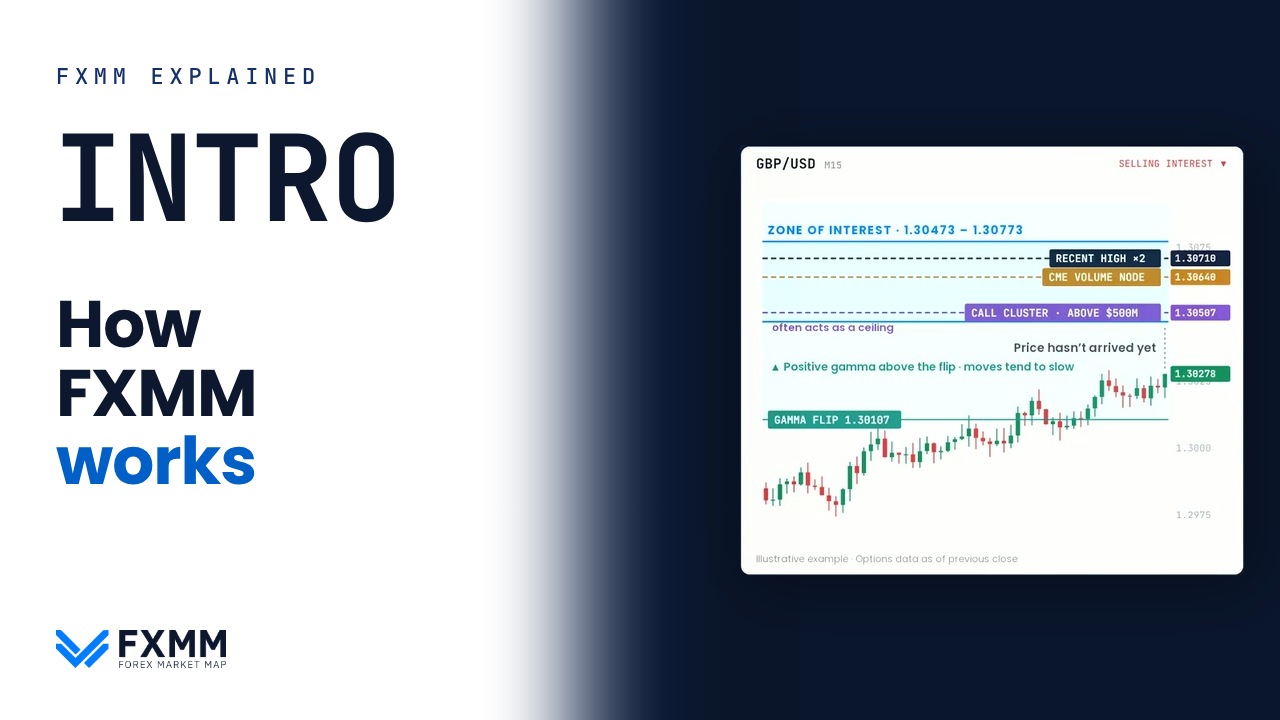
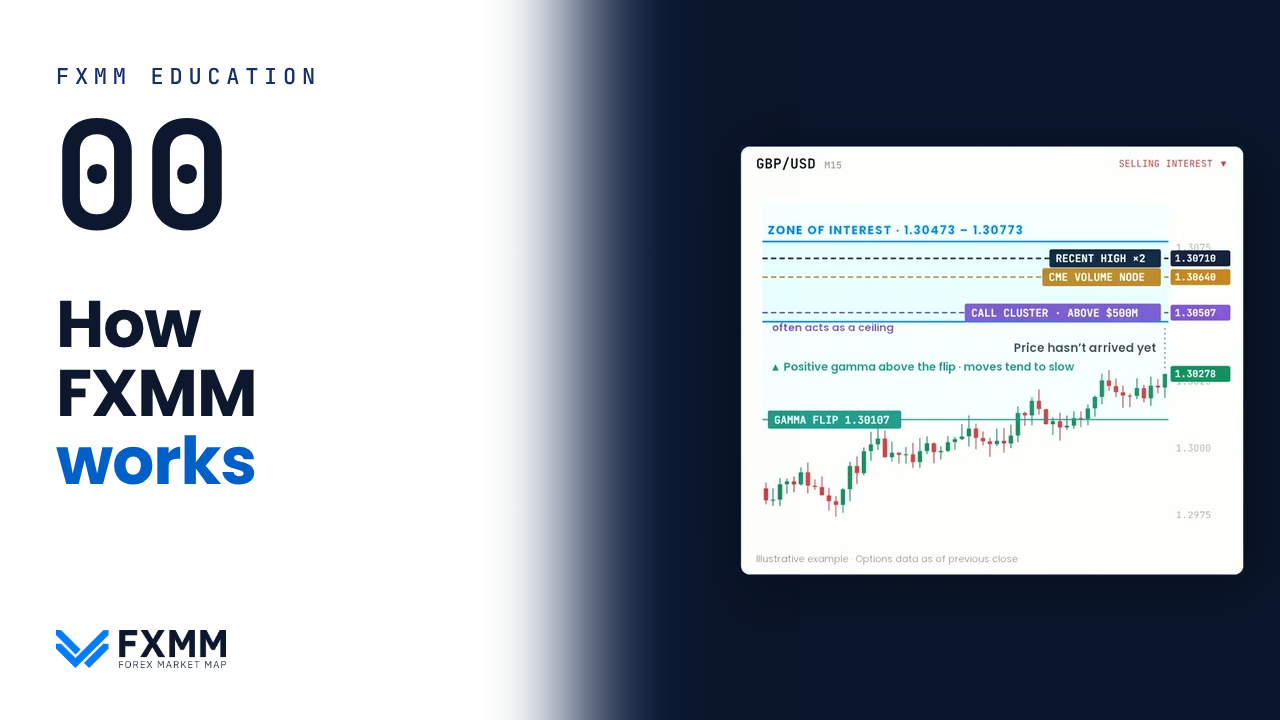
Thumbnails: intro cover matches series (00)
Claude-Session: https://claude.ai/code/session_01VxsYKLABZ3CXgDK8H7oL1R

Changed region(s): [[0.0312, 0.1528, 0.3125, 0.3361], [0.1875, 0.0917, 0.25, 0.1222], [0.125, 0.0917, 0.1562, 0.1222]]

diff --git a/youtube/thumbs/xf.html b/youtube/thumbs/xf.html
@@ -17,7 +17,7 @@ h1{position:absolute;left:56px;top:290px;width:400px;font-size:66px;line-height:
 <svg width="0" height="0" style="position:absolute"><filter id="g"><feTurbulence type="fractalNoise" baseFrequency=".9" numOctaves="2" stitchTiles="stitch"/></filter></svg>
 <script>
 const V=[
-['00','v00',420,'INTRO','How<br>FXMM<br><b>works</b>','FXMM Explained'],
+['00','v00',420,'00','How<br>FXMM<br><b>works</b>','FXMM Education'],
 ['01','v01',400,'01','Prepare<br>your<br><b>chart</b>','FXMM Education'],
 ['02','v02',300,'02','Check<br>your<br><b>H1</b>','FXMM Education'],
 ['03','v03',350,'03','Rejection<br><b>at the</b><br><b>zone</b>','FXMM Education'],
